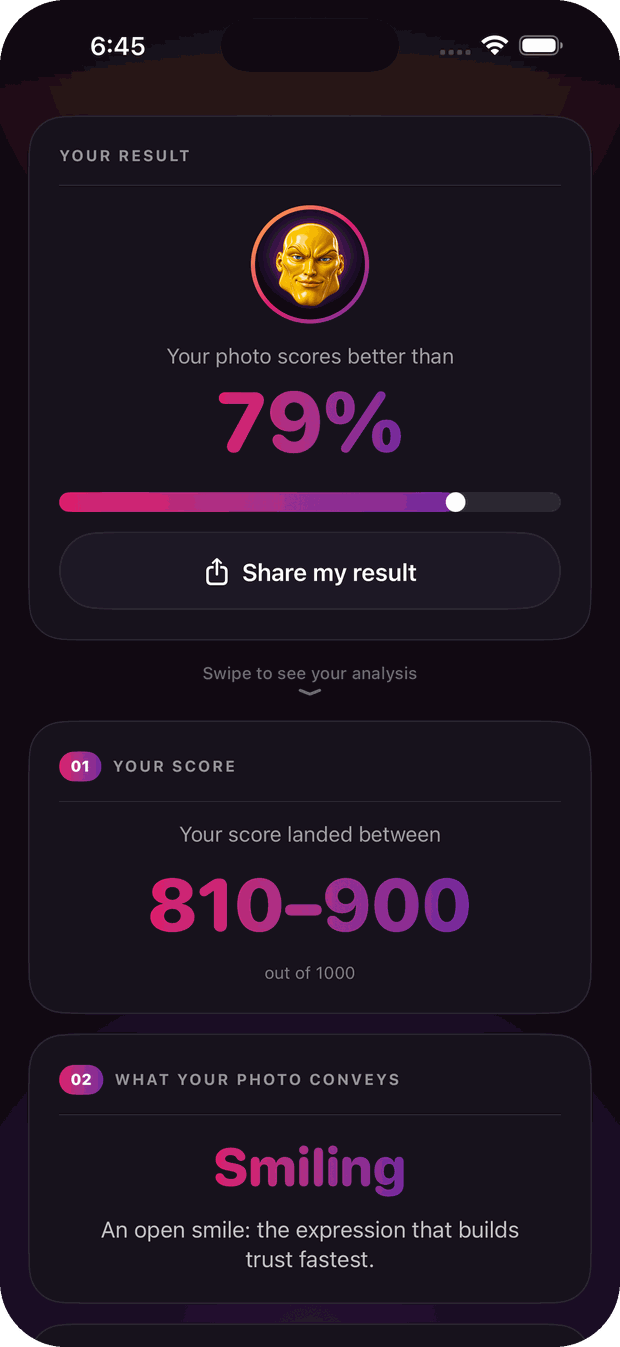
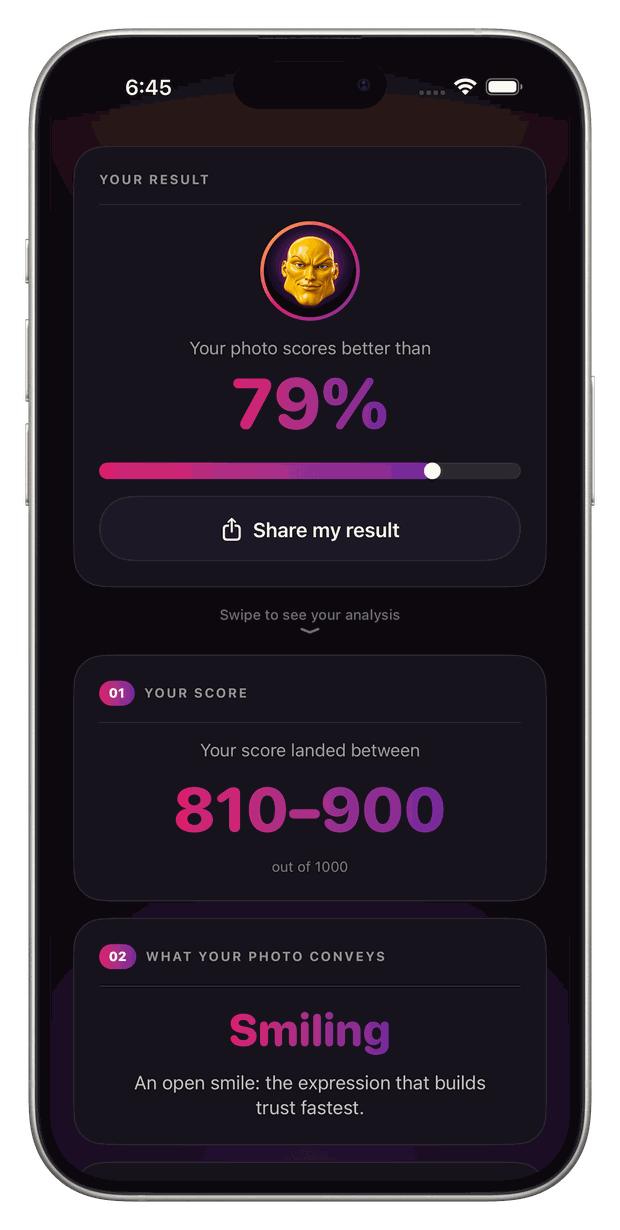
Use the real iPhone mockups on the landing
These are the 1530x3036 exports that already ship the phone frame on a
transparent background, so nothing has to be cut out. The two earlier attempts
cropped the chassis by hand and both came out clipped.

diff --git a/facecheck/index.html b/facecheck/index.html
@@ -149,7 +149,7 @@
 
         <div class="feature-row">
           <div class="shot">
-            <img src="assets/img/face-score-out-of-1000.png" alt="Face score out of 1000 in the FaceCheck photo analyzer app" loading="lazy" width="620" height="1347">
+            <img src="assets/img/face-score-out-of-1000.png" alt="Face score out of 1000 in the FaceCheck photo analyzer app" loading="lazy" width="620" height="1230">
           </div>
           <div class="feature-copy">
             <p class="feature-kicker"><span data-lang="en">Your score</span><span data-lang="es" lang="es">Tu puntaje</span></p>
@@ -160,7 +160,7 @@
 
         <div class="feature-row flip">
           <div class="shot">
-            <img src="assets/img/every-feature-measured.png" alt="Every facial feature measured in FaceCheck: brows, jawline, harmony, symmetry, smile, gaze and framing ranked" loading="lazy" width="620" height="1347">
+            <img src="assets/img/every-feature-measured.png" alt="Every facial feature measured in FaceCheck: brows, jawline, harmony, symmetry, smile, gaze and framing ranked" loading="lazy" width="620" height="1230">
           </div>
           <div class="feature-copy">
             <p class="feature-kicker"><span data-lang="en">Every feature, measured</span><span data-lang="es" lang="es">Cada rasgo, medido</span></p>
@@ -171,7 +171,7 @@
 
         <div class="feature-row">
           <div class="shot">
-            <img src="assets/img/what-your-photo-conveys.png" alt="What your photo conveys in two seconds according to FaceCheck: calm, assured expression" loading="lazy" width="620" height="1347">
+            <img src="assets/img/what-your-photo-conveys.png" alt="What your photo conveys in two seconds according to FaceCheck: calm, assured expression" loading="lazy" width="620" height="1230">
           </div>
           <div class="feature-copy">
             <p class="feature-kicker"><span data-lang="en">First impression</span><span data-lang="es" lang="es">Primera impresión</span></p>
@@ -182,7 +182,7 @@
 
         <div class="feature-row flip">
           <div class="shot">
-            <img src="assets/img/golden-ratio-facial-proportions.png" alt="Golden ratio facial proportions in FaceCheck: eye spacing, mouth width and face shape described as your facial signature" loading="lazy" width="620" height="1347">
+            <img src="assets/img/golden-ratio-facial-proportions.png" alt="Golden ratio facial proportions in FaceCheck: eye spacing, mouth width and face shape described as your facial signature" loading="lazy" width="620" height="1230">
           </div>
           <div class="feature-copy">
             <p class="feature-kicker"><span data-lang="en">Your facial signature</span><span data-lang="es" lang="es">Tu firma facial</span></p>
@@ -193,7 +193,7 @@
 
         <div class="feature-row">
           <div class="shot">
-            <img src="assets/img/photo-angle-analysis.png" alt="Photo angle analysis in FaceCheck: straight-on shot read like a portrait photographer would" loading="lazy" width="620" height="1347">
+            <img src="assets/img/photo-angle-analysis.png" alt="Photo angle analysis in FaceCheck: straight-on shot read like a portrait photographer would" loading="lazy" width="620" height="1230">
           </div>
           <div class="feature-copy">
             <p class="feature-kicker"><span data-lang="en">Your shot's angle</span><span data-lang="es" lang="es">El ángulo de tu toma</span></p>
@@ -204,7 +204,7 @@
 
         <div class="feature-row flip">
           <div class="shot">
-            <img src="assets/img/selfie-tips-points-to-gain.png" alt="Selfie tips in FaceCheck showing 36 points to gain with concrete advice on light, contrast and smile" loading="lazy" width="620" height="1347">
+            <img src="assets/img/selfie-tips-points-to-gain.png" alt="Selfie tips in FaceCheck showing 36 points to gain with concrete advice on light, contrast and smile" loading="lazy" width="620" height="1230">
           </div>
           <div class="feature-copy">
             <p class="feature-kicker"><span data-lang="en">Points you can gain</span><span data-lang="es" lang="es">Puntos que podés ganar</span></p>
@@ -215,7 +215,7 @@
 
         <div class="feature-row">
           <div class="shot">
-            <img src="assets/img/share-your-face-score.png" alt="Share your face score from FaceCheck: result card ready to send to a friend" loading="lazy" width="620" height="1347">
+            <img src="assets/img/share-your-face-score.png" alt="Share your face score from FaceCheck: result card ready to send to a friend" loading="lazy" width="620" height="1230">
           </div>
           <div class="feature-copy">
             <p class="feature-kicker"><span data-lang="en">Share it</span><span data-lang="es" lang="es">Compartilo</span></p>
@@ -226,7 +226,7 @@
 
         <div class="feature-row flip">
           <div class="shot">
-            <img src="assets/img/private-face-analysis.png" alt="Private face analysis: FaceCheck screen confirming your photo never leaves your iPhone" loading="lazy" width="620" height="1347">
+            <img src="assets/img/private-face-analysis.png" alt="Private face analysis: FaceCheck screen confirming your photo never leaves your iPhone" loading="lazy" width="620" height="1230">
           </div>
           <div class="feature-copy">
             <p class="feature-kicker"><span data-lang="en">Private by design</span><span data-lang="es" lang="es">Privada por diseño</span></p>
